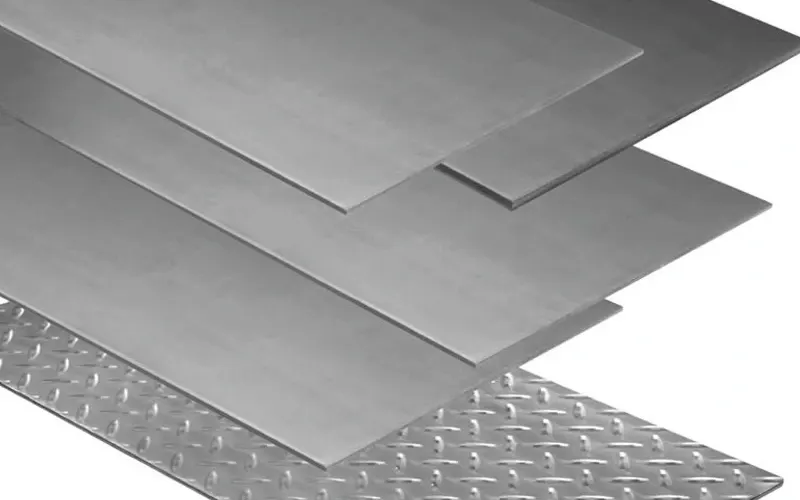
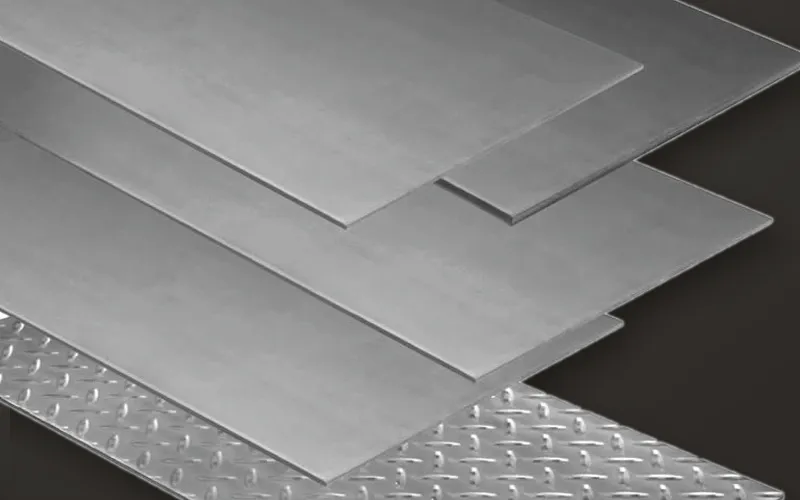
Site: Produtos com fotos novas de chapas (fundo grafite) e bobinas, e 'Também temos' (tela, treliça, arame e pregos)

diff --git a/src/Pagina.jsx b/src/Pagina.jsx
@@ -32,6 +32,12 @@ const PRODUTOS = [
   { nome: 'Chapas', pedido: 'chapas', foto: fotoChapas, descricao: 'Fina e grossa a quente, a frio, zincada e xadrez, para indústria e serralheria.' },
   { nome: 'Bobinas', pedido: 'bobinas', foto: fotoBobinas, descricao: 'Aço plano em bobina para quem corta e conforma na própria fábrica.' },
 ]
+// Também vendemos, com menos destaque: linha de texto, sem foto
+const PRODUTOS_MAIS = [
+  { nome: 'Tela soldada', pedido: 'tela soldada' },
+  { nome: 'Treliça', pedido: 'treliça' },
+  { nome: 'Arame recozido e pregos', pedido: 'arame recozido e pregos' },
+]
 
 export default function BertinLandingPage() {
   const [menuAberto, setMenuAberto] = useState(false)
@@ -299,6 +305,34 @@ export default function BertinLandingPage() {
                     </button>
                   )}
                 </div>
+              </div>
+            ))}
+          </div>
+
+          <div className="mt-10 text-sm font-semibold uppercase tracking-[0.2em] text-[#A3ACB2] mb-4">
+            Também temos
+          </div>
+
+          <div className="grid sm:grid-cols-3 gap-4">
+            {PRODUTOS_MAIS.map((p) => (
+              <div key={p.nome} className="flex items-center justify-between gap-3 rounded-2xl border border-white/10 px-5 py-4">
+                <div className="text-lg font-semibold">
+                  {p.nome}
+                </div>
+
+                {cotando === p.nome ? (
+                  <div className="flex gap-3 shrink-0">
+                    {UNIDADES.map((u) => (
+                      <a key={u.nome} href={whatsappProduto(u, p.pedido)} className="text-marca-clara font-semibold underline underline-offset-4">
+                        {u.cidade}
+                      </a>
+                    ))}
+                  </div>
+                ) : (
+                  <button onClick={() => setCotando(p.nome)} className="shrink-0 text-marca-clara font-semibold">
+                    Cotar ›
+                  </button>
+                )}
               </div>
             ))}
           </div>
